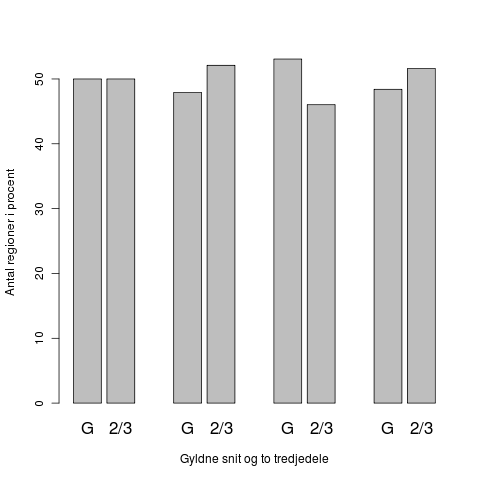
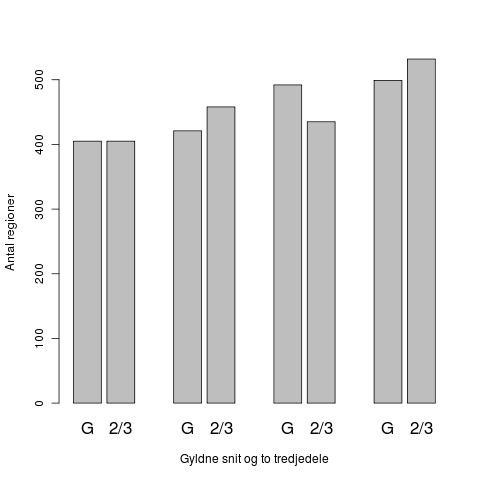
rettelser til udvidet løsnings resultater. G vs 2/3 grafer, nu ikke i %

diff --git a/doc/rapport/afsnit/resultater/udvidet.tex b/doc/rapport/afsnit/resultater/udvidet.tex
@@ -44,7 +44,7 @@ favoriserer denne type malerier.
     \subfloat[Nationalitet]{
         \includegraphics[angle=-90,width=0.42\textwidth]{afsnit/resultater/billeder/nation}
         \label{ud_nation}}
-    \caption[]{Maleriernes årstal og nationalitet.}
+    \caption[]{Antal malerier ved årstal og nationalitet, fra resultater i det udvidet sæt.}
     \label{ud_year_nation}
 \end{figure}
 
@@ -112,7 +112,7 @@ ligger tættest på miden, og færrest ud i kanterne.
 	\begin{center}
 		\includegraphics[width=0.9\textwidth]{afsnit/resultater/billeder/cut0cut1eatsperratioU.png}
 	\end{center}
-	\caption{Antal regioner i hvert af de 20 vertikale snit}
+	\caption{Antal regioner i hvert af de 20 vertikale snit i den udvidet kørsel}
 	\label{antal_regioner_vertikale_cut_udvidet}
 \end{figure}
 
@@ -127,8 +127,8 @@ regioner. Kanterne er igen klart de laveste i grafen.
 	\begin{center}
 		\includegraphics[width=0.9\textwidth]{afsnit/resultater/billeder/cut2cut3eatsperratioU.png}
 	\end{center}
-    \caption{Antal regioner i hvert af de 20 horisontale snit, hvor
-    venstre side af grafen repræsenterer øverste del af malerierne.}
+    \caption{Antal regioner i hvert af de 20 horisontale snit i den udvidet kørsel, hvor
+    venstre side af grafen repræsenterer øverste del af malerierne. }
     \label{antal_regioner_horisontale_cut_udvidet}
 \end{figure}
 
@@ -150,8 +150,8 @@ Vi kan derfor ikke afvise hypotese \ref{hypo_15p}.
 	\begin{center}
 		\includegraphics[width=0.6\textwidth]{afsnit/resultater/billeder/G_vs_to_tredjedeleU.png}
 	\end{center}
-	\caption{Procentvis antal regioner i de fire gyldne snit og deres
-    tilhørende $\frac{2}{3}$-snit.}
+	\caption{Antal regioner i de fire gyldne snit og deres
+    tilhørende $\frac{2}{3}$-snit. Data fra den udvidet kørsel}
 	\label{G_vs_to_trejedele_udvidet}
 \end{figure}
 
@@ -168,7 +168,7 @@ hypotese \ref{hypo_tid}.
 		\includegraphics[angle=0,width=0.90\textwidth]{afsnit/resultater/billeder/yearcutU.png}
 	\end{center}
     \caption{Graf over det gennemsnitlige antal regioner fundet i hver
-    tidsperiode. Hver graf repræsenterer hvert deres snit.}
+    tidsperiode. Hver graf repræsenterer hvert deres snit i den udvidet kørsel.}
 	\label{udvidet_year}
 \end{figure}
 
@@ -186,7 +186,7 @@ fundne regioner, end Danmark og Frankrig, holder hypotese
 		\includegraphics[angle=0,width=0.90\textwidth]{afsnit/resultater/billeder/nationcutU.png}
 	\end{center}
     \caption{Graf over gennemsnitligt antal fundne regioner i det gyldne
-    snit fra hver nationalitet.}
+    snit fra hver nationalitet i den udvidet kørsel.}
 	\label{udvidet_nation}
 \end{figure}
 
@@ -263,7 +263,7 @@ resultater.
         8 & $GS$ brugt lige meget, uanset nationalitet  & \checkmark &              \\\hline
         9 & $\frac{2}{3}$ brugt som approksimation til $GS$   &      & \checkmark	\\\hline
     \end{tabular}
-    \caption[]{Hypoteser i forhold til den naive kørsel. $GS$ bruges som
+    \caption[]{Hypoteser i forhold til den udvidet kørsel. $GS$ bruges som
     forkortelse for det gyldne snit.  $^{\textrm{*}}$Jvf. udregning
     \ref{tabel_real_dimensions} }
     \label{hypoteser_udvidet}
